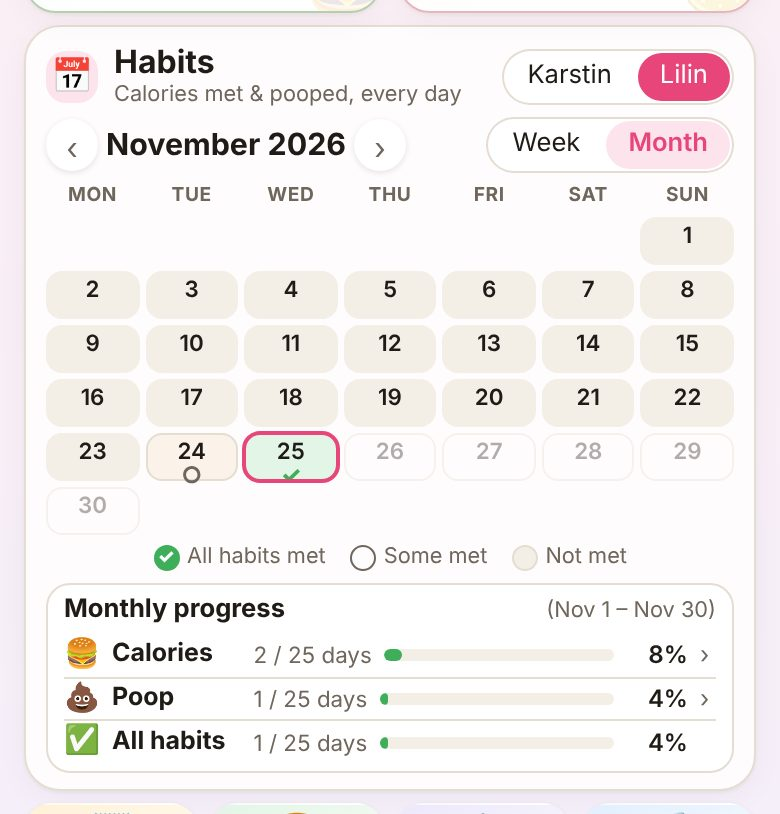
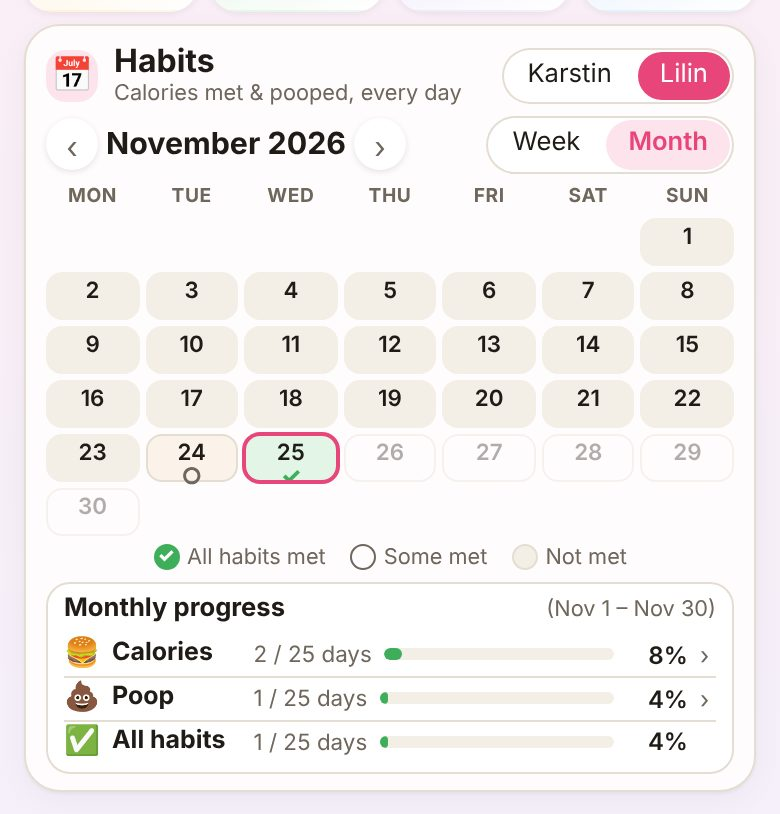
Home: Quick add sits above the Habits calendar
Claude-Session: https://claude.ai/code/session_01KGaSeqBZzEPJimoKXXuGSj

diff --git a/public/index.html b/public/index.html
@@ -39,6 +39,16 @@
       </div>
     </section>
 
+    <section aria-labelledby="quickTitle">
+      <h2 class="home-h sr-only" id="quickTitle">Quick add</h2>
+      <nav class="quick-grid" aria-label="Quick add">
+        <a class="quick q-expense" href="/daily/?add=personal&amp;from=home"><span>🧾</span><b>Expense</b></a>
+        <a class="quick q-food" href="/fitness/?add=food&amp;from=home"><span>🍔</span><b>Food</b></a>
+        <a class="quick q-weight" href="/fitness/?add=weight&amp;from=home"><span>⚖</span><b>Weight</b></a>
+        <a class="quick q-poop" href="/toilet/?add=1&amp;from=home"><span>🚽</span><b>Poop</b></a>
+      </nav>
+    </section>
+
     <section class="panel home-cal habits" aria-labelledby="habitsTitle">
       <div class="hab-top">
         <button type="button" class="icon-btn round-btn hab-back" id="calBack" aria-label="Back to all habits" hidden>‹</button>
@@ -64,16 +74,6 @@
         <ul class="hp-list" id="progList"></ul>
         <div class="hp-stats" id="catStats" hidden></div>
       </div>
-    </section>
-
-    <section aria-labelledby="quickTitle">
-      <h2 class="home-h sr-only" id="quickTitle">Quick add</h2>
-      <nav class="quick-grid" aria-label="Quick add">
-        <a class="quick q-expense" href="/daily/?add=personal&amp;from=home"><span>🧾</span><b>Expense</b></a>
-        <a class="quick q-food" href="/fitness/?add=food&amp;from=home"><span>🍔</span><b>Food</b></a>
-        <a class="quick q-weight" href="/fitness/?add=weight&amp;from=home"><span>⚖</span><b>Weight</b></a>
-        <a class="quick q-poop" href="/toilet/?add=1&amp;from=home"><span>🚽</span><b>Poop</b></a>
-      </nav>
     </section>
 
   </main>

diff --git a/public/home.js b/public/home.js
@@ -1,4 +1,5 @@
-// Home page (/): today at a glance (each card opens its app), quick-add buttons that open an
+// Home page (/): today at a glance (each card opens its app), quick-add buttons (above the habits
+// calendar) that open an
 // app straight into its dialog (it comes back here afterwards), and the apps in the bottom bar.
 
 import { $, esc, store, localToday, toast, fetchJson, setupIdentity, checkIdentity } from "/common.js";
